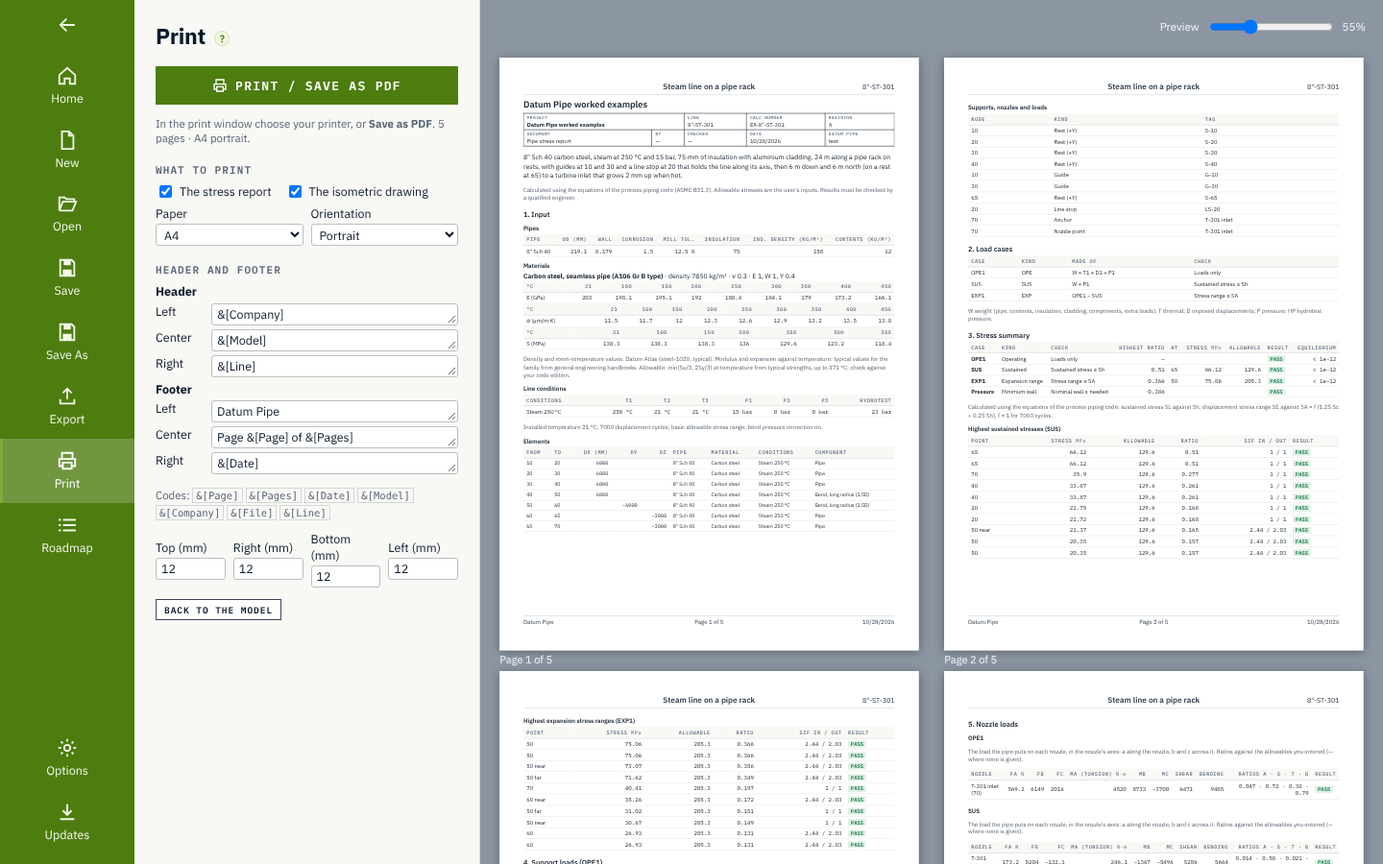
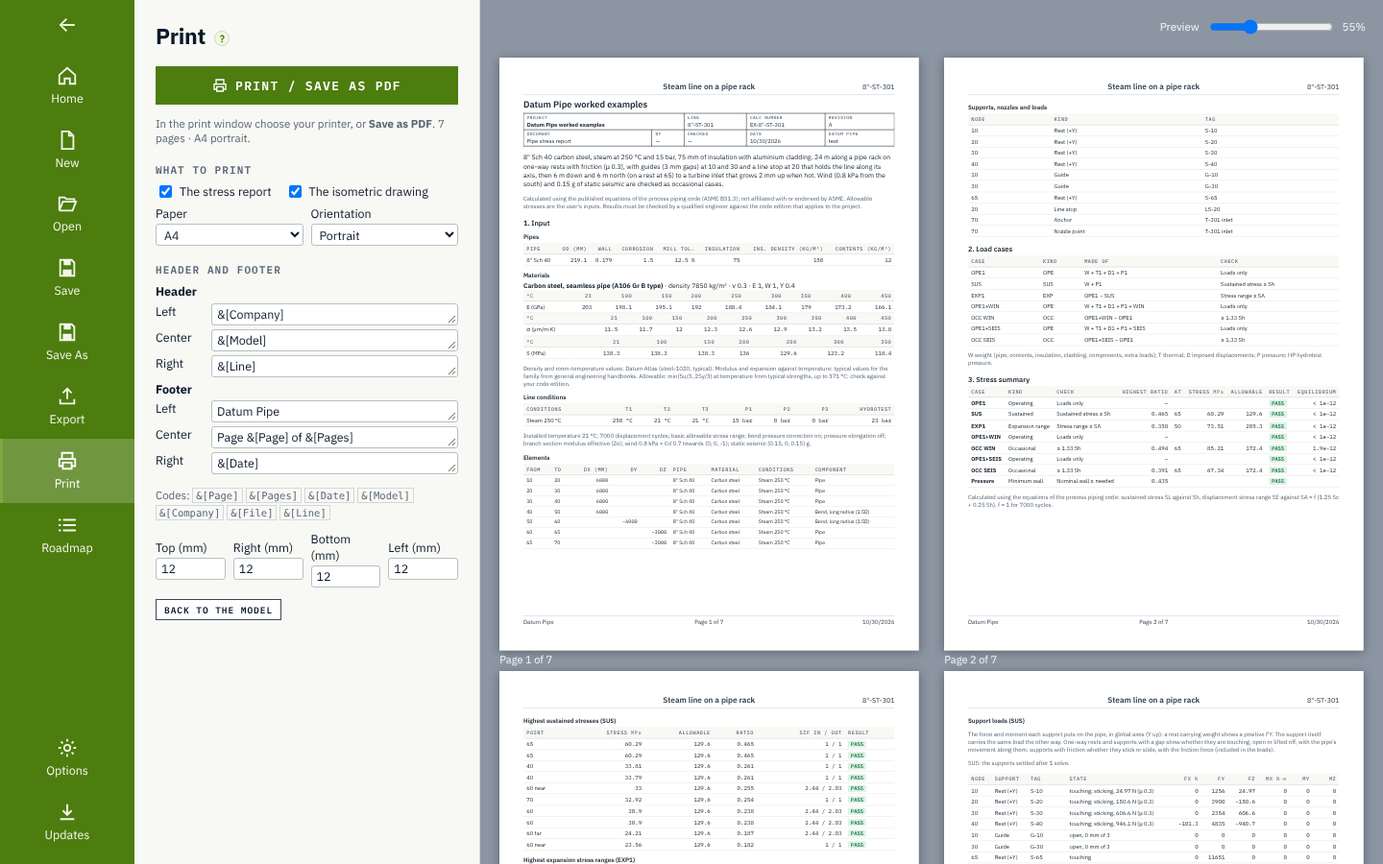
Datum Pipe 0.2.0: review and milestone
Fixes from an independent review of the engine changes since 0.1.4, each with a regression test:
- touching one-way or gapped supports on one direction at a node share its reaction (each
  reported all of it, so the loads did not balance);
- a custom bend radius of D/2 or less is refused, and its wall check fails;
- a spring hanger with a moving attachment is sized on the relative travel;
- the .pcf import splits the run pipe at an olet, joining its branch.

README, site, screenshots, verification record (48 checks), CHANGELOG and MEMORY (with the
summary of the stage) brought up to date.

Claude-Session: https://claude.ai/code/session_015XbkM7HboUBHrMv4heSExN

diff --git a/crates/core/src/solve.rs b/crates/core/src/solve.rs
@@ -140,7 +140,8 @@ pub struct Results {
 }
 
 /// One spring hanger's sizing: its hot load (the weight it carries with the pipe held level there),
-/// its travel from cold to hot in operating case 1 (up positive), and the spring chosen: its rate,
+/// its travel from cold to hot in operating case 1 (up positive, relative to its attachment if
+/// that moves), and the spring chosen: its rate,
 /// cold load C = H + k Δ and load variation |k Δ| / H. With no spring that fits, a constant-force
 /// support carrying H.
 #[derive(Clone, Debug, Serialize)]
@@ -207,7 +208,9 @@ pub fn analyze(m: &Model) -> Result<Results, String> {
         }
         let h = hot[&s.id];
         let pt = r2.geom.node_point[&s.node];
-        let travel = r2.cases[0].disp[pt][1];
+        // The travel against the hanger's own attachment, which may move in case 1 (found by the
+        // 0.2.0 review: the pipe's absolute movement left the hot load off by k u0).
+        let travel = r2.cases[0].disp[pt][1] - s.disp[0][1];
         let d = match choose_spring(&m.settings.springs, h, travel, m.settings.variability) {
             Some((i, cold)) => {
                 let sz = &m.settings.springs[i];
@@ -424,8 +427,10 @@ struct CondSolve {
     f: Vec<f64>,
     /// −1 touching on the minus side (pushing the pipe along +dir), +1 on the plus side, 0 open.
     state: Vec<i8>,
-    /// The stiffness each support was given as a spring (0: held exactly, or open).
+    /// The stiffness each support was given as a spring (0: held exactly, or open), and its share
+    /// of a reaction held exactly with others.
     spring_k: Vec<f64>,
+    share: Vec<f64>,
     iterations: u32,
     stats: Stats,
     settled: bool,
@@ -470,6 +475,18 @@ fn solve_conditional(sys: &System, held: &[bool], f: &[f64], fixed: &[f64], cond
                         }
                         f2[6 * c.pt + a] += kk * target * c.dir[a];
                     }
+                }
+            }
+        }
+        // Touching supports held exactly on the same unknown share its reaction equally (found by
+        // the 0.2.0 review: each reported all of it).
+        let mut share = vec![1.0; conds.len()];
+        {
+            let exact = |i: usize| -> Option<usize> { let c = &conds[i]; (state[i] != 0 && spring_k[i] == 0.0 && c.k == 0.0).then_some(())?; let ax = axis_of(c.dir)?; (!held[6 * c.pt + ax]).then_some(6 * c.pt + ax) };
+            for i in 0..conds.len() {
+                if let Some(dof) = exact(i) {
+                    let n = (0..conds.len()).filter(|&j| exact(j) == Some(dof)).count();
+                    share[i] = 1.0 / n as f64;
                 }
             }
         }
@@ -544,7 +561,7 @@ fn solve_conditional(sys: &System, held: &[bool], f: &[f64], fixed: &[f64], cond
         let mut changed = false;
         for (i, c) in conds.iter().enumerate() {
             let v = dot(c.dir, disp(&u, c.pt)) - u0(c);
-            let r = conds_reaction(c, state[i], spring_k[i], &u, &ku, &f2, u0(c));
+            let r = conds_reaction(c, state[i], spring_k[i], share[i], &u, &ku, &f2, u0(c));
             let next = match state[i] {
                 0 if v < -c.gap - 1e-9 => -1,
                 0 if v > c.gap + 1e-9 && !c.one_way => 1,
@@ -574,7 +591,7 @@ fn solve_conditional(sys: &System, held: &[bool], f: &[f64], fixed: &[f64], cond
                 press = add(press, scale(sp.dir, -sp.k * (dot(sp.dir, disp(&u, sp.pt)) - su0)));
             }
             for (i, c) in conds.iter().enumerate().filter(|(_, c)| c.support == fr.support) {
-                press = add(press, scale(c.dir, conds_reaction(c, used[i], spring_k[i], &u, &ku, &f2, u0(c))));
+                press = add(press, scale(c.dir, conds_reaction(c, used[i], spring_k[i], share[i], &u, &ku, &f2, u0(c))));
             }
             let limit = fr.mu * norm(press);
             let tol = 1e-9 * (limit + 1.0);
@@ -634,14 +651,14 @@ fn solve_conditional(sys: &System, held: &[bool], f: &[f64], fixed: &[f64], cond
         }
         if !changed || iter >= MAX_ITER {
             // The states this solve used, so the loads always match it (also when it did not settle).
-            return Ok(CondSolve { u, ku, f: f2, state: used, spring_k, iterations: iter, stats, settled: !changed, soft, friction: fout });
+            return Ok(CondSolve { u, ku, f: f2, state: used, spring_k, share, iterations: iter, stats, settled: !changed, soft, friction: fout });
         }
     }
 }
 
 /// The force a support puts on the pipe along its direction: held exactly (K u − f at its unknown),
 /// as a spring (−k (u − target)), or nothing when open.
-fn conds_reaction(c: &Cond, state: i8, spring_k: f64, u: &[f64], ku: &[f64], f: &[f64], u0: f64) -> f64 {
+fn conds_reaction(c: &Cond, state: i8, spring_k: f64, share: f64, u: &[f64], ku: &[f64], f: &[f64], u0: f64) -> f64 {
     if spring_k > 0.0 {
         let v = dot(c.dir, [u[6 * c.pt], u[6 * c.pt + 1], u[6 * c.pt + 2]]);
         return -spring_k * (v - (state as f64 * c.gap + u0));
@@ -651,7 +668,7 @@ fn conds_reaction(c: &Cond, state: i8, spring_k: f64, u: &[f64], ku: &[f64], f: 
     }
     let ax = axis_of(c.dir).unwrap_or(0);
     let dof = 6 * c.pt + ax;
-    (ku[dof] - f[dof]) * c.dir[ax]
+    (ku[dof] - f[dof]) * c.dir[ax] * share
 }
 
 struct Spring {
@@ -956,13 +973,13 @@ fn solve_model(m: &Model) -> Result<Results, String> {
     // Linear supports only: every case with one factorisation. With one-way or gapped supports,
     // each case is solved by iteration with its own support states.
     let dcases: Vec<u8> = sums.iter().map(|c| match c.recipe { Recipe::Sum { d, .. } => d, _ => 0 }).collect();
-    let (sols, ku, rhs_f, states, springs_k, iters, frout, stats) = if conds.is_empty() && frics.is_empty() {
+    let (sols, ku, rhs_f, states, springs_k, shares, iters, frout, stats) = if conds.is_empty() && frics.is_empty() {
         let (sols, stats) = sys.solve_many(&held, &rhs)?;
         let ku: Vec<Vec<f64>> = sols.iter().map(|u| sys.mul(u)).collect();
         let n_c = sols.len();
-        (sols, ku, rhs.iter().map(|r| r.0.clone()).collect::<Vec<_>>(), vec![vec![]; n_c], vec![vec![]; n_c], vec![1u32; n_c], vec![vec![]; n_c], stats)
+        (sols, ku, rhs.iter().map(|r| r.0.clone()).collect::<Vec<_>>(), vec![vec![]; n_c], vec![vec![]; n_c], vec![vec![]; n_c], vec![1u32; n_c], vec![vec![]; n_c], stats)
     } else {
-        let (mut sols, mut kus, mut fs, mut sts, mut sks, mut its, mut frs) = (vec![], vec![], vec![], vec![], vec![], vec![], vec![]);
+        let (mut sols, mut kus, mut fs, mut sts, mut sks, mut shs, mut its, mut frs) = (vec![], vec![], vec![], vec![], vec![], vec![], vec![], vec![]);
         let lin = Linear { owners: &hold_owner, springs: &springs };
         let mut stats = Stats::default();
         for (k, (f, fixed)) in rhs.iter().enumerate() {
@@ -987,10 +1004,11 @@ fn solve_model(m: &Model) -> Result<Results, String> {
             fs.push(cs.f);
             sts.push(cs.state);
             sks.push(cs.spring_k);
+            shs.push(cs.share);
             its.push(cs.iterations);
             frs.push(cs.friction);
         }
-        (sols, kus, fs, sts, sks, its, frs, stats)
+        (sols, kus, fs, sts, sks, shs, its, frs, stats)
     };
     // ---------------------------------------------------------------- results per case
     let mut by_id: HashMap<u32, CaseResult> = HashMap::new();
@@ -1062,7 +1080,11 @@ fn solve_model(m: &Model) -> Result<Results, String> {
                 for (i, cd) in conds.iter().enumerate() {
                     let s = states[k][i];
                     let u0 = if dcase > 0 { cd.u0[dcase as usize - 1] } else { 0.0 };
-                    let r = conds_reaction(cd, s, springs_k[k][i], u, &ku[k], f, u0);
+                    let sh = shares[k][i];
+                    if sh < 1.0 && !shared.contains(&cd.node) {
+                        shared.push(cd.node);
+                    }
+                    let r = conds_reaction(cd, s, springs_k[k][i], sh, u, &ku[k], f, u0);
                     let e = reac.entry(cd.support).or_insert([0.0; 6]);
                     for d in 0..3 {
                         e[d] += r * cd.dir[d];

diff --git a/crates/core/src/worked.rs b/crates/core/src/worked.rs
@@ -700,3 +700,50 @@ fn files_without_a_spring_table_get_the_generic_one() {
     assert_eq!(back.settings.springs.len(), 60);
     assert_eq!(back.settings.variability, 0.25);
 }
+
+#[test]
+fn two_one_way_rests_at_a_node_share_the_load() {
+    // Found by the 0.2.0 review: two touching one-way rests on one node each reported the whole
+    // load (the balance was out by half). They share it, with a warning, as linear supports do.
+    let mut d = table("two rests", &[(10, 20, 3.0, 0.0, 0.0)]);
+    no_g(&mut d);
+    sup(&mut d, 10, SupKind::Anchor);
+    sup_with(&mut d, 20, SupKind::Rest, true, 0.0);
+    sup_with(&mut d, 20, SupKind::Rest, true, 0.0);
+    load(&mut d, 20, [0.0, -10e3, 0.0]);
+    let r = analyze(&d.m).unwrap();
+    let each: Vec<f64> = case(&r, "OPE1").reactions.iter().filter(|x| x.node == 20).map(|x| x.f[1]).collect();
+    assert_eq!(each.len(), 2);
+    assert!(each.iter().all(|f| close(*f, 5e3, 1e-9)), "{each:?}");
+    assert!(case(&r, "OPE1").imbalance < 1e-9);
+    assert!(r.warnings.iter().any(|w| w.contains("node 20")), "{:?}", r.warnings);
+}
+
+#[test]
+fn a_bend_too_tight_for_its_pipe_is_refused() {
+    // Found by the 0.2.0 review: a custom radius of D/2 or less gave a negative bend factor and a
+    // passing wall check. Such a bend is refused.
+    let mut d = table("tight", &[(10, 20, 3.0, 0.0, 0.0), (20, 30, 0.0, 3.0, 0.0)]);
+    let mut e = d.m.elements[0].clone();
+    e.comp = Comp::Bend { bend: crate::model::BendKind::Custom, r: 0.06 };
+    assert!(d.apply(Op::Set { item: Item::Element(e) }).is_err());
+    // And the factor itself never gives a thinner wall than straight pipe needs.
+    let (i, _) = crate::code::bend_factor(0.06, 0.168);
+    assert!(!(i.is_finite() && i > 0.0) || i >= 1.0);
+}
+
+#[test]
+fn a_hanger_on_a_moving_attachment_carries_its_hot_load() {
+    // Found by the 0.2.0 review: a hanger whose attachment moves 10 mm up in case 1 was sized on
+    // the pipe's absolute travel, so in operation it did not carry H.
+    let mut d = table("moving hanger", &[(10, 20, 6.0, 0.0, 0.0)]);
+    no_g(&mut d);
+    sup(&mut d, 10, SupKind::Anchor);
+    d.apply(Op::Add { item: Item::Support(Support { node: 20, kind: SupKind::Hanger { k: 0.0, cold: 0.0 }, disp: [[0.0, 0.01, 0.0, 0.0, 0.0, 0.0], [0.0; 6], [0.0; 6]], ..Default::default() }), after: None }).unwrap();
+    load(&mut d, 20, [0.0, -5e3, 0.0]);
+    let r = analyze(&d.m).unwrap();
+    let h = &r.hangers[0];
+    assert!(h.k > 0.0, "{h:?}");
+    assert!(close(react(&r, "OPE1", 20)[1], h.hot, 1e-9), "{} {}", react(&r, "OPE1", 20)[1], h.hot);
+    assert!(close(h.cold, h.hot + h.k * h.travel, 1e-12));
+}

diff --git a/crates/core/src/import.rs b/crates/core/src/import.rs
@@ -219,10 +219,10 @@ pub fn pcf(text: &str) -> Result<Imported, String> {
     // Zero-length pieces (a gasket at one point) are dropped; supports and olets on a piece split it.
     pieces.retain(|p| p.a != p.b && len(sub(nodes[p.b], nodes[p.a])) >= 1e-4);
     let splits: Vec<usize> = sups.iter().map(|s| s.0).chain(tees.iter().map(|t| t.0)).collect();
+    // A point inside a piece always splits it, even when another piece (an olet's branch) already
+    // starts there (found by the 0.2.0 review: the branch was left unconnected).
     for &n in &splits {
-        if pieces.iter().any(|p| p.a == n || p.b == n) {
-            continue;
-        }
+        let touches = pieces.iter().any(|p| p.a == n || p.b == n);
         let q = nodes[n];
         if let Some(i) = pieces.iter().position(|p| {
             let (a, b) = (nodes[p.a], nodes[p.b]);
@@ -233,7 +233,7 @@ pub fn pcf(text: &str) -> Result<Imported, String> {
             let p = pieces.remove(i);
             pieces.push(Piece { a: p.a, b: n, nps: p.nps, to_nps: None, rigid: p.rigid });
             pieces.push(Piece { a: n, b: p.b, nps: p.nps, to_nps: None, rigid: p.rigid.map(|r| (r.0, 0.0)) });
-        } else {
+        } else if !touches {
             warnings.push(format!("A support or branch at ({:.0}, {:.0}, {:.0}) mm is not on the piping: left out.", q[0] * 1e3, q[1] * 1e3, q[2] * 1e3));
         }
     }
@@ -431,6 +431,20 @@ SUPPORT
                 assert!(r.model.check().is_ok());
             }
         }
+    }
+
+    #[test]
+    fn an_olet_splits_its_run_pipe() {
+        // Found by the 0.2.0 review: an olet's centre already had its branch piece, so the run pipe
+        // was never split there and the branch was left unconnected.
+        let f = "UNITS-BORE MM\nUNITS-CO-ORDS MM\nPIPE\n    END-POINT 0 0 0 150\n    END-POINT 6000 0 0 150\nOLET\n    CENTRE-POINT 3000 0 0\n    BRANCH1-POINT 3000 0 80 50\nPIPE\n    END-POINT 3000 0 80 50\n    END-POINT 3000 0 1080 50\nSUPPORT\n    CO-ORDS 0 0 0 0\n    NAME ANC-1\nSUPPORT\n    CO-ORDS 6000 0 0 0\n    NAME ANC-2\n";
+        let r = pcf(f).unwrap();
+        let m = &r.model;
+        let tee = m.elements.iter().find(|e| matches!(e.comp, Comp::Tee { .. })).unwrap();
+        // Three elements meet at the tee: the run split in two and the branch.
+        assert_eq!(m.elements.iter().filter(|e| e.from == tee.to || e.to == tee.to).count(), 3, "{:?}", m.elements);
+        let res = crate::solve::analyze(m).unwrap();
+        assert!(res.cases.iter().all(|c| c.imbalance < 1e-9));
     }
 
     #[test]

diff --git a/crates/core/src/model.rs b/crates/core/src/model.rs
@@ -686,6 +686,9 @@ impl Model {
             }
             match &e.comp {
                 Comp::Bend { bend: BendKind::Custom, r } if !(*r > 0.0 && fin(*r)) => return Err(format!("The bend at node {} needs a radius.", e.to)),
+                // A bend's radius must be more than half its pipe's diameter (found by the 0.2.0
+                // review: the wall check's bend factor turns negative there).
+                Comp::Bend { bend: BendKind::Custom, r } if self.pipe(e.pipe).is_some_and(|p| *r <= p.od / 2.0) => return Err(format!("The bend at node {} needs a radius larger than half its pipe's outside diameter.", e.to)),
                 Comp::Tee { pad, .. } if !(*pad >= 0.0 && fin(*pad)) => return Err(format!("The tee at node {}: the pad thickness must be 0 or more.", e.to)),
                 Comp::Reducer { to } if self.pipe(*to).is_none() => return Err(format!("The reducer {}–{} needs the pipe at its small end.", e.from, e.to)),
                 Comp::Rigid { mass, .. } if !(*mass >= 0.0 && fin(*mass)) => return Err(format!("The rigid part {}–{}: its weight must be 0 or more.", e.from, e.to)),
@@ -1003,7 +1006,7 @@ fn repair(m: &mut Model, warn: &mut Vec<String>) {
             e.extra = 0.0;
         }
         let bad = match &e.comp {
-            Comp::Bend { bend: BendKind::Custom, r } => !(*r > 0.0 && fin(*r)),
+            Comp::Bend { bend: BendKind::Custom, r } => !(*r > 0.0 && fin(*r)) || m.pipes.iter().find(|p| p.id == e.pipe).is_some_and(|p| *r <= p.od / 2.0),
             Comp::Tee { pad, .. } => !(*pad >= 0.0 && fin(*pad)),
             Comp::Reducer { to } => !pipes.contains(to),
             Comp::Rigid { mass, .. } => !(*mass >= 0.0 && fin(*mass)),

diff --git a/crates/core/src/code.rs b/crates/core/src/code.rs
@@ -40,8 +40,12 @@ pub fn hoop_stress_i(p: f64, d: f64, t: f64, e: f64, w: f64, y: f64, i: f64) -> 
 /// The bend factor at the intrados and the extrados: I = (4R/D ∓ 1) / (4R/D ∓ 2). It is the ratio of
 /// the hoop stress of a pressurised torus to that of a straight pipe, from the membrane
 /// equilibrium of a torus, σ = (P r / 2t)(2R + r sin φ)/(R + r sin φ), at r = D/2, sin φ = ∓1.
+/// A radius of D/2 or less (no room for the intrados) gives an infinite factor, so the check fails.
 pub fn bend_factor(rb: f64, d: f64) -> (f64, f64) {
     let x = 4.0 * rb / d;
+    if !(x > 2.0) {
+        return (f64::INFINITY, 1.0);
+    }
     ((x - 1.0) / (x - 2.0), (x + 1.0) / (x + 2.0))
 }
 

diff --git a/docs/verification/0.2.0.md b/docs/verification/0.2.0.md
@@ -1,0 +1,56 @@
+# Datum Pipe 0.2.0: verification record
+
+Every row was solved by Datum Pipe's engine and compared with a reference worked out independently. The same checks run as tests (`cargo test`, `bench.rs`) and in the app (Help › Verification). SI base units.
+
+| # | Benchmark | Quantity | Datum Pipe | Reference | Error | Source | |
+| --- | --- | --- | --- | --- | --- | --- | --- |
+| 1 | Cantilever with an end load | Tip deflection | -3.806237e-2 | -3.806237e-2 | 1.3e-14 | Beam theory: PL³/3EI + PL/κGA (shear, κ = 0.5) | pass |
+| 1 | Cantilever with an end load | Root moment | 3.000000e4 | 3.000000e4 | 1.7e-14 | Statics: P L | pass |
+| 1 | Cantilever with an end load | Tip rotation | -1.892448e-2 | -1.892448e-2 | 9.2e-15 | Beam theory: PL²/2EI | pass |
+| 2 | Pipe under its own weight between two anchors | Mid-span deflection | -6.676014e-4 | -6.676014e-4 | 3.2e-16 | Beam theory: wL⁴/384EI + wL²/8κGA | pass |
+| 2 | Pipe under its own weight between two anchors | End moment | 1.379962e3 | 1.379962e3 | 1.2e-15 | Beam theory: wL²/12 | pass |
+| 2 | Pipe under its own weight between two anchors | End reaction | 1.379962e3 | 1.379962e3 | 2.5e-15 | Statics: wL/2 | pass |
+| 3 | L-bend between two anchors, heated | End force along X | -6.855784e3 | -6.855784e3 | 2.9e-15 | Flexibility (elastic centre) method by hand | pass |
+| 3 | L-bend between two anchors, heated | End force along Y | -4.154290e3 | -4.154290e3 | 2.3e-14 | Flexibility (elastic centre) method by hand | pass |
+| 3 | L-bend between two anchors, heated | End moment | -1.141230e4 | -1.141230e4 | 4.3e-15 | Flexibility (elastic centre) method by hand | pass |
+| 4 | Z-bend between two anchors, heated | End force along X | -4.527476e3 | -4.527476e3 | 2.3e-14 | Flexibility (elastic centre) method by hand | pass |
+| 4 | Z-bend between two anchors, heated | End force along Y | -5.654916e3 | -5.654916e3 | 4.7e-15 | Flexibility (elastic centre) method by hand | pass |
+| 4 | Z-bend between two anchors, heated | End moment | 7.909797e3 | 7.909797e3 | 6.9e-15 | Flexibility (elastic centre) method by hand | pass |
+| 5 | A bend's flexibility (6" long-radius elbow) | End rotation under an in-plane moment | 9.951628e-4 | 9.951628e-4 | 1.3e-15 | k = 1.65/h, h = T·R/r²; θ = k M R (π/2) / EI | pass |
+| 5 | A bend's flexibility (6" long-radius elbow) | Flexibility factor k | 6.590019e0 | 6.590000e0 | 2.9e-6 | h = 0.2504 by hand | pass |
+| 6 | Minimum wall for internal pressure | Pressure design thickness | 5.925176e-3 | 5.925176e-3 | 9.5e-9 | Pressure design thickness equation (para. 304.1.2) by hand | pass |
+| 6 | Minimum wall for internal pressure | Nominal wall needed (corrosion, 12.5 % mill) | 8.485915e-3 | 8.485915e-3 | 5.8e-8 | Pressure design thickness equation (para. 304.1.2) by hand | pass |
+| 6 | Minimum wall for internal pressure | Hoop stress on the remaining wall | 1.741442e8 | 1.741442e8 | 9.2e-11 | Pressure design thickness equation (para. 304.1.2) by hand | pass |
+| 7 | Expansion loop between two anchors, heated | Anchor force along the line | -1.835947e3 | -1.835947e3 | 4.5e-15 | Expansion loop by the elastic centre method | pass |
+| 7 | Expansion loop between two anchors, heated | Anchor moment | 1.658275e3 | 1.658275e3 | 1.9e-13 | Expansion loop by the elastic centre method | pass |
+| 9 | Minimum wall of a bend at its intrados | Bend factor I at the intrados | 1.291209e0 | 1.291209e0 | 1.6e-10 | Bend factor from the membrane equilibrium of a torus, by hand | pass |
+| 9 | Minimum wall of a bend at its intrados | Pressure design thickness | 7.588391e-3 | 7.588391e-3 | 4.6e-8 | Bend factor from the membrane equilibrium of a torus, by hand | pass |
+| 10 | Pressure elongation between two anchors | Anchor force along the line | -6.399112e4 | -6.399112e4 | 0.0e0 | Hooke's law: N = E A (σL − ν σh) / E | pass |
+| 11 | A tee branch's effective section modulus | Sustained stress in the branch at the tee | 1.801948e8 | 1.801948e8 | 2.0e-10 | Ze = π r₂² Ts with Markl's tee factors, by hand | pass |
+| 12 | A one-way rest under a cantilever's tip | Pushed up: tip lifts as a free cantilever | 3.806237e-2 | 3.806237e-2 | 1.3e-14 | Beam theory: PL³/3EI + PL/κGA, rest open | pass |
+| 12 | A one-way rest under a cantilever's tip | Pushed up: rest load | 0.000000e0 | 0.000000e0 | 0.0e0 | The rest cannot pull | pass |
+| 12 | A one-way rest under a cantilever's tip | Pushed down: rest load | 1.000000e4 | 1.000000e4 | 0.0e0 | Statics: the rest carries P | pass |
+| 13 | A gap closing at a cantilever's tip | Tip movement (the gap) | 5.000000e-3 | 5.000000e-3 | 0.0e0 | The gap: 5 mm | pass |
+| 13 | A gap closing at a cantilever's tip | Restraint load | -8.686367e3 | -8.686367e3 | 4.4e-15 | Beam theory: P − g / c, c = L³/3EI + L/κGA | pass |
+| 14 | Friction at a rest, heated | Sliding: friction force (μ P) | -3.000000e3 | -3.000000e3 | 0.0e0 | Coulomb friction: μ N, N = P by statics | pass |
+| 14 | Friction at a rest, heated | Sliding: end movement | 1.318558e-2 | 1.318558e-2 | 0.0e0 | Hooke's law: ε L − μ P L / EA | pass |
+| 14 | Friction at a rest, heated | Sticking: friction force (E A ε < μ P) | -1.609389e6 | -1.609389e6 | 0.0e0 | Hooke's law: E A ε | pass |
+| 14 | Friction at a rest, heated | Sticking: end movement | 0.000000e0 | 0.000000e0 | 0.0e0 | The rest holds the pipe | pass |
+| 15 | Wind on a cantilever | Tip deflection (OCC WIN) | 5.053321e-4 | 5.053321e-4 | 2.6e-14 | Beam theory: qL⁴/8EI + qL²/2κGA, q = p Cd D | pass |
+| 15 | Wind on a cantilever | Root moment (OCC WIN) | 5.300663e2 | 5.300662e2 | 2.1e-14 | Statics: qL²/2 | pass |
+| 16 | Static seismic on a cantilever | Root force (OCC SEIS) | -2.494823e2 | -2.494823e2 | 1.6e-15 | Statics: 0.3 w L | pass |
+| 16 | Static seismic on a cantilever | Root moment (OCC SEIS) | 3.742235e2 | 3.742235e2 | 5.6e-15 | Statics: 0.3 w L²/2 | pass |
+| 17 | Occasional stress at the root of the cantilever | Sustained plus seismic stress | 1.164797e7 | 1.164797e7 | 1.0e-14 | Para. 302.3.6: SL + S_occ, beam theory M/Z | pass |
+| 18 | A spring hanger on a heated riser and run | Hot load H | 2.000000e4 | 2.000000e4 | 0.0e0 | Statics: the load at the held hanger | pass |
+| 18 | A spring hanger on a heated riser and run | Travel Δ | 8.806800e-3 | 8.806800e-3 | 0.0e0 | Free thermal growth of the 4 m riser | pass |
+| 18 | A spring hanger on a heated riser and run | Spring rate chosen (B-10) | 2.050000e5 | 2.050000e5 | 0.0e0 | The table's first size that fits | pass |
+| 18 | A spring hanger on a heated riser and run | Cold load C = H + k Δ | 2.180539e4 | 2.180539e4 | 0.0e0 | Hooke's law | pass |
+| 18 | A spring hanger on a heated riser and run | Hanger load in operation (OPE1) | 2.000000e4 | 2.000000e4 | 0.0e0 | C − k Δ = H | pass |
+| 8 | Equilibrium: Pump discharge with an expansion loop | Largest imbalance in any load case | 1.059489e-11 | 0.000000e0 | 1.1e-11 | Statics: Σ reactions + Σ loads = 0 | pass |
+| 8 | Equilibrium: Compressor suction to a header | Largest imbalance in any load case | 1.898042e-13 | 0.000000e0 | 1.9e-13 | Statics: Σ reactions + Σ loads = 0 | pass |
+| 8 | Equilibrium: Steam line on a pipe rack | Largest imbalance in any load case | 1.919222e-12 | 0.000000e0 | 1.9e-12 | Statics: Σ reactions + Σ loads = 0 | pass |
+| 8 | Equilibrium: Tank outlet with settlement | Largest imbalance in any load case | 8.105686e-12 | 0.000000e0 | 8.1e-12 | Statics: Σ reactions + Σ loads = 0 | pass |
+| 8 | Equilibrium: A simple L-bend | Largest imbalance in any load case | 4.857955e-13 | 0.000000e0 | 4.9e-13 | Statics: Σ reactions + Σ loads = 0 | pass |
+| 8 | Equilibrium: A Z-bend | Largest imbalance in any load case | 1.506650e-13 | 0.000000e0 | 1.5e-13 | Statics: Σ reactions + Σ loads = 0 | pass |
+
+48 of 48 checks pass.

diff --git a/docs/MEMORY.md b/docs/MEMORY.md
@@ -92,6 +92,10 @@ Units: the engine and the file use SI base units (m, kg, N, Pa, K). The engine's
 
 | Version | Decision | Why |
 | --- | --- | --- |
+| 0.2.0 | Touching one-way or gapped supports held exactly on one unknown share its reaction equally (`CondSolve.share`), with the shared-support warning | Found by the review; the same rule as linear supports |
+| 0.2.0 | A custom bend radius ≤ D/2 is refused by `check` (and repaired on open); `bend_factor` returns an infinite intrados factor there so a wall check fails | Found by the review: the factor turned negative |
+| 0.2.0 | Hanger travel = the pipe's movement minus the hanger's own imposed movement in case 1 | Found by the review: C must give H in operation |
+| 0.2.0 | The .pcf import splits a piece at any support or olet point inside it, even if another piece already starts there | Found by the review: olet branches were unconnected |
 | 0.1.11 | The regulator's piping benchmark problems (NUREG/CR-1677, Brookhaven 1980) are response-spectrum problems with no static results, so they move to 0.4 | A benchmark is only worth adding when this version can solve it |
 | 0.1.11 | `.pcf` import in `crates/core/src/import.rs`: a new unsaved model; nodes merged within 1 mm and numbered 10, 20, … in order of first appearance; X east, Y north, Z up → (x, z, −y); elbows at the corner with R = tangent / tan(θ/2); tees and olets as tees at the centre (set-on and olets fabricated); supports split the pipe they sit on; rests one-way, ANC/GUI/STOP in the name → anchor/guide/line stop; nominal bore → library NPS, Std wall | The common content of these files, with everything the user must check named in the notes and the warnings |
 | 0.1.11 | Public words name the format by its extension only (.pcf, "piping component file"), not any tool; the header line naming a tool is not needed and is matched generically | FAMILY §13 |
@@ -178,8 +182,8 @@ Each stage is reached through small 0.x.y steps; the next minor version (0.2.0, 
 | 0.1.9 | Wind and static seismic loads, occasional cases and the occasional stress check | ✅ |
 | 0.1.10 | Spring hanger selection (spring data entered by the user) | ✅ |
 | 0.1.11 | Import of plain-text piping component files (the regulator benchmarks moved to 0.4: they are dynamic) | ✅ |
-| 0.2.0 | Milestone: 0.1.5–0.1.11 reviewed, verification record and examples updated; no new features | 🔜 |
-| 0.3 | Pump, compressor and turbine nozzle checks, flange leakage, local stresses at vessel nozzles, relief valve thrust | ⬜ |
+| 0.2.0 | Milestone: 0.1.5–0.1.11 reviewed, verification record and examples updated; no new features | ✅ |
+| 0.3 | Pump, compressor and turbine nozzle checks, flange leakage, local stresses at vessel nozzles, relief valve thrust (to be split into 0.2.x steps before it starts) | 🔜 |
 | 0.4 | Dynamics: modes, harmonic, response spectrum; the regulator's public piping benchmark problems (NUREG/CR-1677) | ⬜ |
 | 0.5 | Power piping and European piping code equations, buried pipe, cold spring | ⬜ |
 | 1.0 | Validation report, user guide, signed installer | ⬜ |
@@ -257,7 +261,17 @@ Each stage is reached through small 0.x.y steps; the next minor version (0.2.0, 
 - Checked in the real app through the file dialog: the sample imports and analyses.
 - The regulator benchmarks are dynamic: moved to 0.4 (site, MEMORY, the Verification dialog's note).
 
-## 5. Known limits (0.1.11)
+### 2026-10-30: Session 2, continued (0.2.0: review and milestone)
+- An independent reviewer (a separate agent, given the diff and MEMORY, told to demonstrate every finding with numbers) read cec9e76..0.1.11. Four bugs, all confirmed and fixed with regression tests: shared reactions of touching conditional supports, bends with R ≤ D/2, hanger travel with a moving attachment, olet branches in the import. It found the rest correct (bend factor, Ze, pressure strain, reactions at held unknowns, contact and friction states, sliding force, wind, seismic, occasional range, hanger sizing, .pcf mapping).
+- README and site describe everything to 0.2.0; screenshots, verification record (48 checks) refreshed.
+
+### Summary of the second stage (0.1.5–0.2.0)
+- **Released:** 0.1.5 (code check fixes, Help › Sources, legal wording), 0.1.6 (publisher "Datum"), 0.1.7 (one-way rests, gaps), 0.1.8 (friction), 0.1.9 (wind, static seismic, occasional check), 0.1.10 (spring hangers), 0.1.11 (.pcf import), 0.2.0 (review).
+- **Works:** every support is linear or settles by iteration (contact, gaps, friction) with balanced loads; occasional loads; hangers sized from the user's spring table; import from design tools; 18 benchmarks (48 checks) and 32 hand-worked cases.
+- **Moved:** the regulator's public benchmarks to 0.4 (they are dynamic).
+- **Next:** stage 0.3 (equipment and flanges), to be split into small 0.2.x releases first.
+
+## 5. Known limits (0.2.0)
 
 - One-way supports are rests only (+Y); a guide or restraint with a gap acts both ways.
 - Friction is the same in every direction across a support (no separate coefficients), and is path-independent: each case slides from the installed position.

diff --git a/CHANGELOG.md b/CHANGELOG.md
@@ -1,5 +1,17 @@
 # Changelog
 
+## 0.2.0 — 2026-10-30
+
+The milestone that closes the second stage: nonlinear supports, occasional loads, spring hangers and import (0.1.5–0.1.11), reviewed. No new features.
+
+**Fixes from an independent review of the engine.**
+- Two one-way or gapped supports touching on the same direction at one node now share its load equally, with a warning; each reported the whole load, so the equilibrium check failed.
+- A bend whose radius is half its pipe's diameter or less is refused (its bend factor turned negative and the wall check passed); the wall check of such a bend fails.
+- A spring hanger whose attachment moves in operating case 1 is sized on the pipe's movement relative to the attachment, so it carries its hot load in operation.
+- Importing a piping component file joins an olet's branch to its run pipe (the run was not split there, leaving the branch unconnected).
+
+Each with a regression test. The verification record (48 checks), the screenshots, the README and the site describe everything up to this release.
+
 ## 0.1.11 — 2026-10-30
 
 Import of piping component files.
